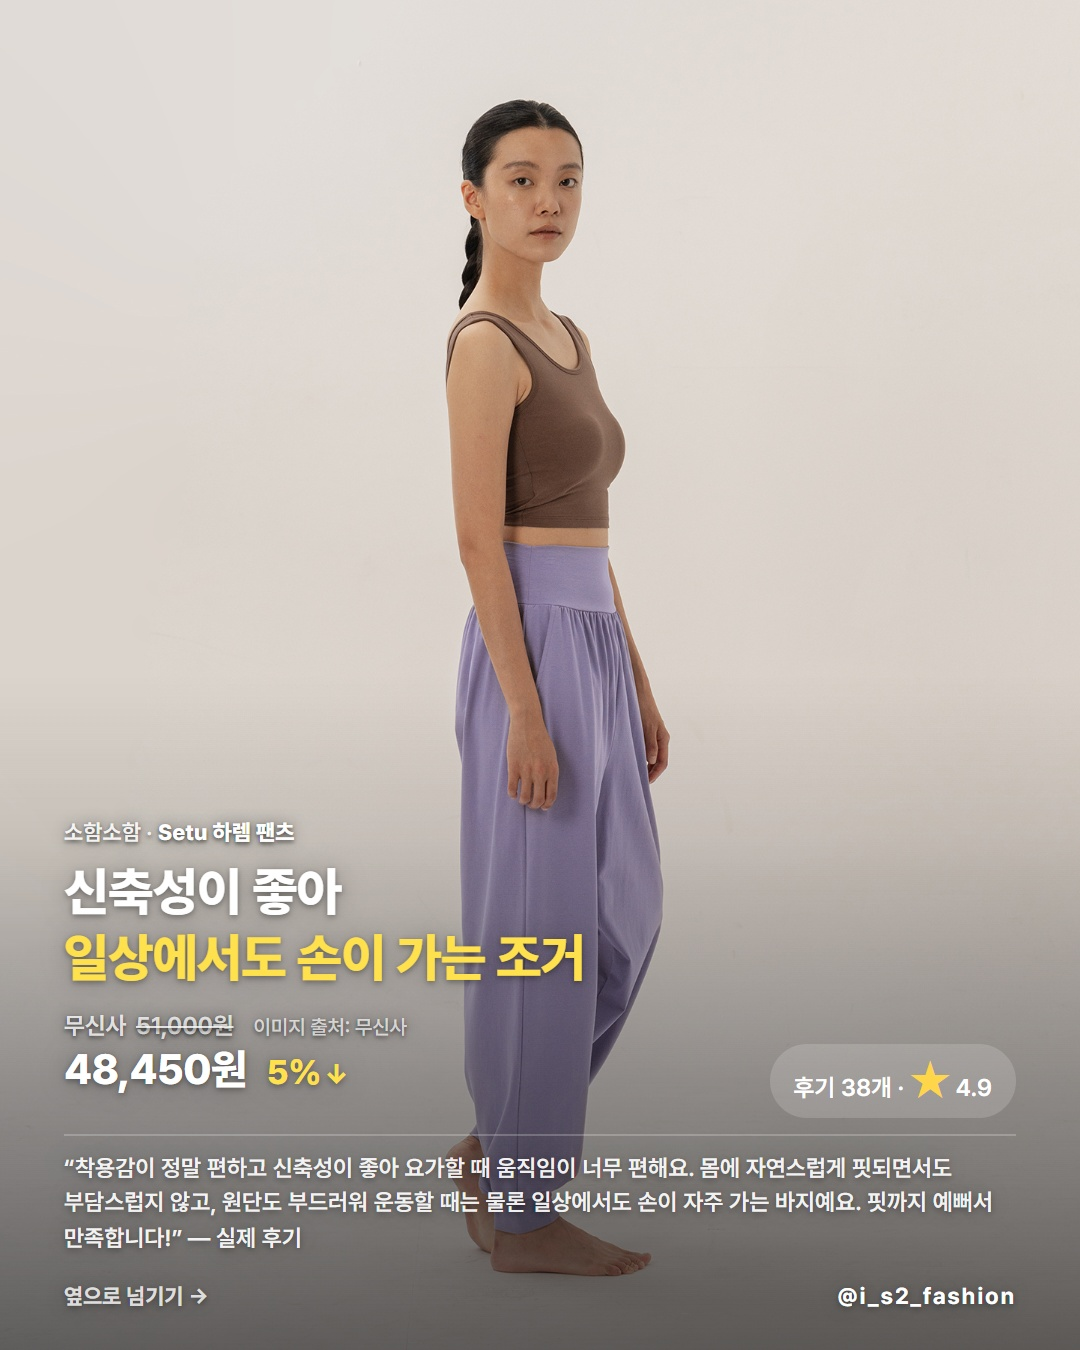
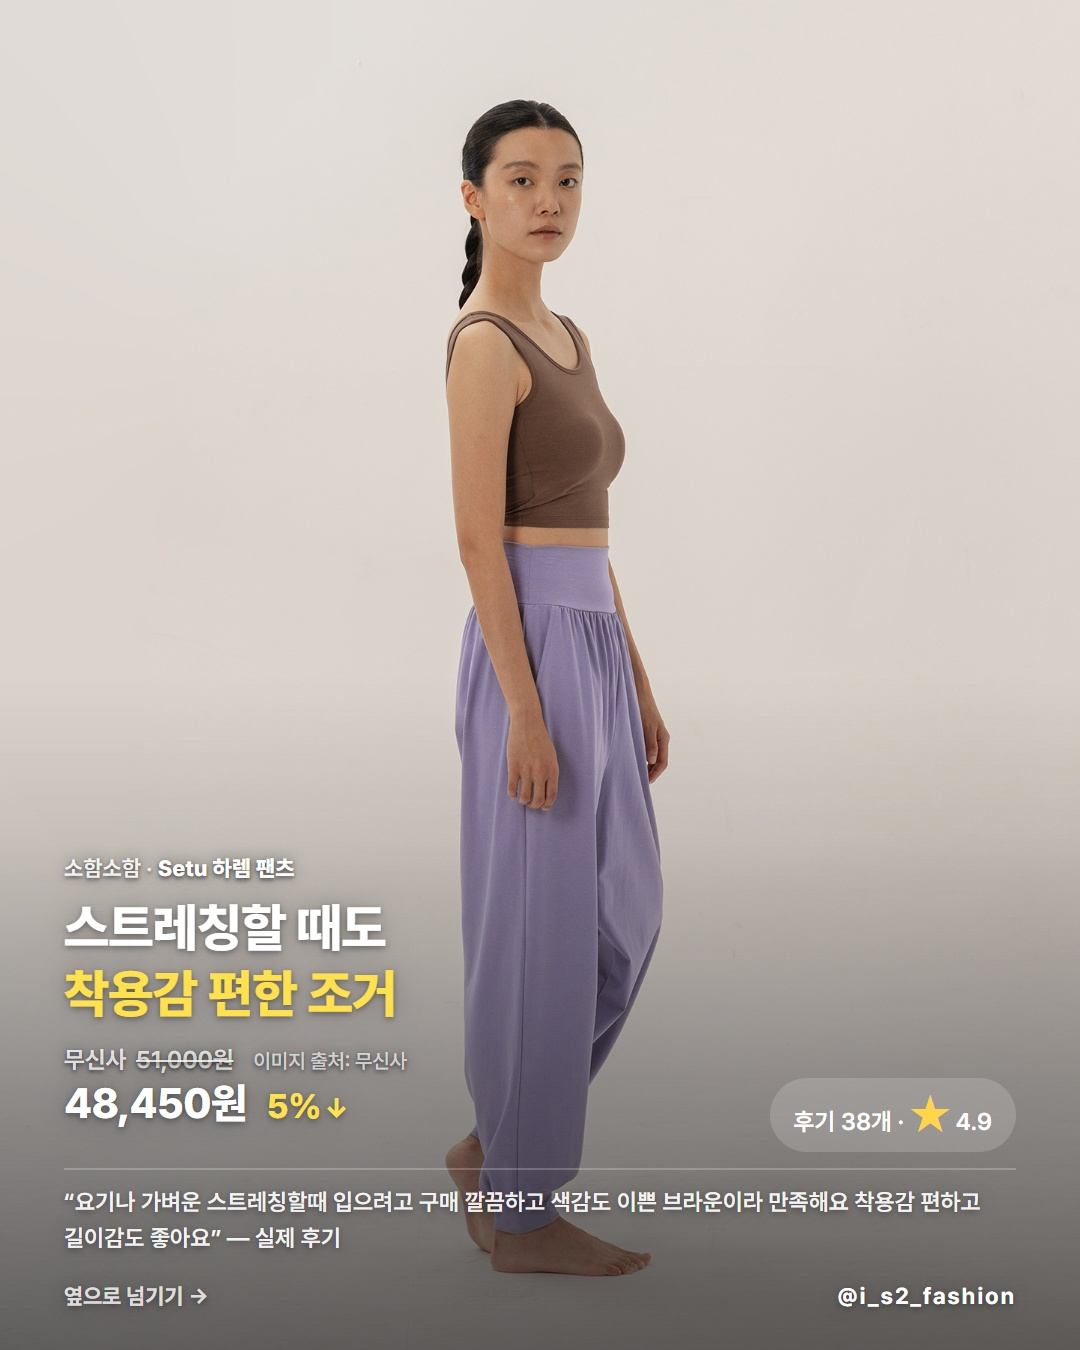
autopost: 20261007 가을 등산 하렘팬츠 — 소함소함 후기를 짧은 것으로(텍스트 블록 35% 이내)

Changed region(s): [[0.0611, 0.5911, 0.9167, 0.9333]]

diff --git a/episodes/20261007 가을 등산 하렘팬츠/_preview.html b/episodes/20261007 가을 등산 하렘팬츠/_preview.html
@@ -4,7 +4,7 @@
 h1{font-size:18px}.g{display:grid;grid-template-columns:repeat(auto-fit,minmax(260px,1fr));gap:16px}
 img{width:100%;display:block}pre{white-space:pre-wrap;background:#1e1e21;padding:16px;line-height:1.7}
 li.error{color:#ff6b81}li.warn{color:#ffd166}</style></head><body>
-<h1>20261007 가을 등산 하렘팬츠 — 미리보기</h1><ul><li class=warn>3번(6503202): 다른 몰 가격을 비교하지 못함(§2 최저가 확인 불가) — 다른 몰 상세 조회 실패(4003163): 29CM 상세 차단 — 이번 실행 중단(403 연속 3회)</li><li class=warn>5번(5971890): 다른 몰 가격을 비교하지 못함(§2 최저가 확인 불가) — 다른 몰 상세 조회 실패(3241294): 29CM 상세 차단 — 이번 실행 중단(403 연속 3회)</li><li class=error>6번 카드 텍스트 블록이 36% — 35% 이하로 줄일 것(§4)</li><li class=warn>핸들 미검증으로 태그에서 뺀 브랜드: 로브로브, 아수라, 해피요기즈, 소함소함</li></ul><div class="g"><img src="1.jpg?t=0" alt="1"><img src="2.jpg?t=0" alt="2"><img src="3.jpg?t=0" alt="3"><img src="4.jpg?t=0" alt="4"><img src="5.jpg?t=0" alt="5"><img src="6.jpg?t=0" alt="6"><img src="7.jpg?t=0" alt="7"></div>
+<h1>20261007 가을 등산 하렘팬츠 — 미리보기</h1><ul><li class=warn>3번(6503202): 다른 몰 가격을 비교하지 못함(§2 최저가 확인 불가) — 다른 몰 상세 조회 실패(4003163): 29CM 상세 차단 — 이번 실행 중단(403 연속 3회)</li><li class=warn>5번(5971890): 다른 몰 가격을 비교하지 못함(§2 최저가 확인 불가) — 다른 몰 상세 조회 실패(3241294): 29CM 상세 차단 — 이번 실행 중단(403 연속 3회)</li><li class=warn>핸들 미검증으로 태그에서 뺀 브랜드: 로브로브, 아수라, 해피요기즈, 소함소함</li></ul><div class="g"><img src="1.jpg?t=0" alt="1"><img src="2.jpg?t=0" alt="2"><img src="3.jpg?t=0" alt="3"><img src="4.jpg?t=0" alt="4"><img src="5.jpg?t=0" alt="5"><img src="6.jpg?t=0" alt="6"><img src="7.jpg?t=0" alt="7"></div>
 <h2>캡션</h2><pre>가을 등산 하렘팬츠는 산 아래서는 편했는데 오르막에서 다리가 안 올라가거나 밑단이 걸리면 그날로 옷장행이 됩니다 🍂
 
 그래서 후기에서 편하고 가동성이 좋다고 확인된 다섯 벌을 산길 강도 순서로 놓았습니다. 첫 장은 둘레길과 나들이에 맞는 도톰한 벌룬형이고, 장을 넘길수록 오르막에서도 잘 늘어난다는 요가용 조거로 갑니다. 다섯 벌 모두 밑단이 발목에서 모여 바짓단이 바위에 걸리지 않습니다.
@@ -15,7 +15,7 @@ li.error{color:#ff6b81}li.warn{color:#ffd166}</style></head><body>
 파르티멘토 우먼 코튼 더블 웨이스트 하렘 팬츠 — 집 앞에서도 여행에서도 편하다는 후기, 발목 시보리가 더 조였으면 좋겠다는 후기, 라지는 길이는 맞지만 많이 컸다는 후기가 있습니다
 아수라 폴드 하렘 팬츠 — 얇고 찰랑거려 가볍다는 후기, 접히는 부분이 종아리를 적당히 잡아 준다는 후기가 있고, 부들거리는 소재라 보풀 관리가 필요할 것 같다는 후기도 있습니다
 해피요기즈 Posa 와이드 하렘 팬츠 — 땀이 많아도 자국이 남지 않았다는 후기, 건조기에 돌려도 보풀이 안 났다는 후기가 있습니다
-소함소함 Setu 하렘 팬츠 — 요가할 때 편하고 일상에서도 손이 자주 간다는 후기, 키 큰 버전으로 사길 잘했다는 후기가 있고, 마감이 깔끔하지 않다는 단점 후기도 하나 있습니다
+소함소함 Setu 하렘 팬츠 — 요가나 가벼운 스트레칭에 입기 편하고 길이감이 좋다는 후기, 키 큰 버전으로 사길 잘했다는 후기가 있고, 마감이 깔끔하지 않다는 단점 후기도 하나 있습니다
 
 다음 산행에 같이 갈 친구에게 보내 두고, 입어 볼 바지는 저장해 두세요 🔖
 

diff --git a/episodes/20261007 가을 등산 하렘팬츠/result.md b/episodes/20261007 가을 등산 하렘팬츠/result.md
@@ -19,7 +19,6 @@
 - 자동 검사 결과:
 - [warn] 3번(6503202): 다른 몰 가격을 비교하지 못함(§2 최저가 확인 불가) — 다른 몰 상세 조회 실패(4003163): 29CM 상세 차단 — 이번 실행 중단(403 연속 3회)
 - [warn] 5번(5971890): 다른 몰 가격을 비교하지 못함(§2 최저가 확인 불가) — 다른 몰 상세 조회 실패(3241294): 29CM 상세 차단 — 이번 실행 중단(403 연속 3회)
-- [error] 6번 카드 텍스트 블록이 36% — 35% 이하로 줄일 것(§4)
 - [warn] 핸들 미검증으로 태그에서 뺀 브랜드: 로브로브, 아수라, 해피요기즈, 소함소함
 - 태그에서 뺀 브랜드(핸들 미검증): 로브로브, 아수라, 해피요기즈, 소함소함
 
